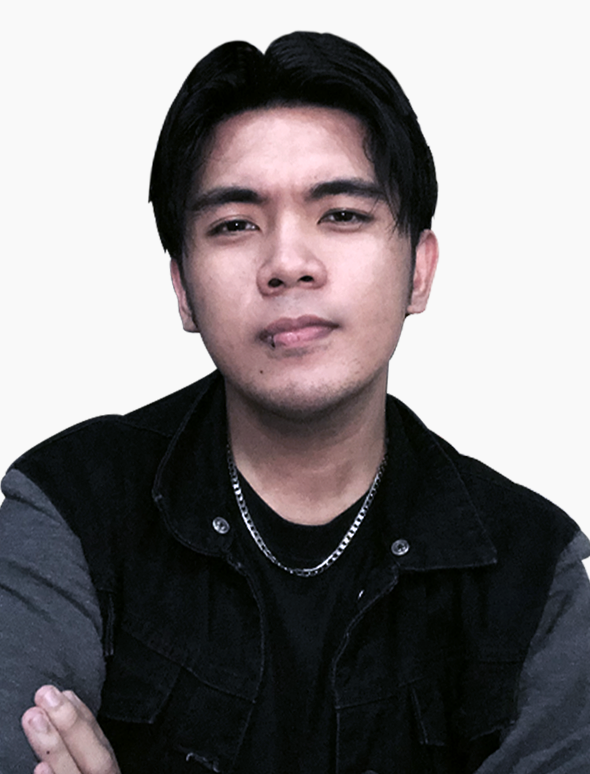
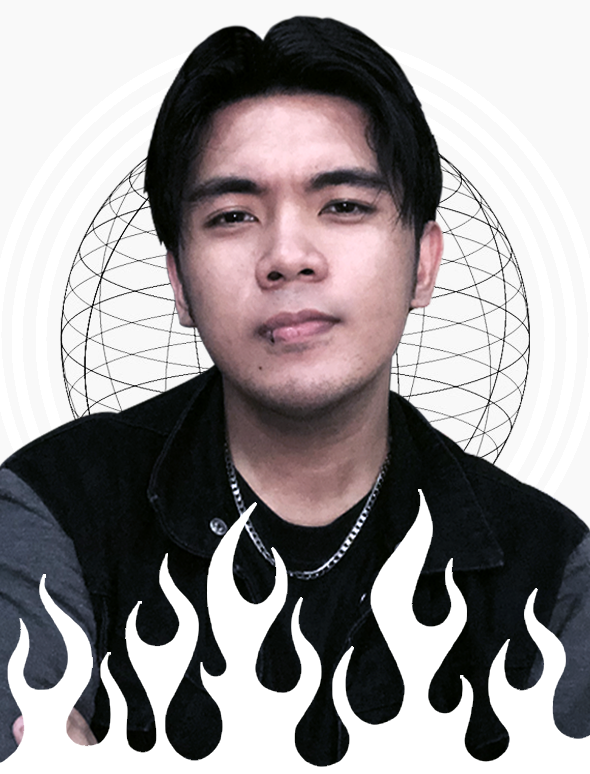
index change

Changed region(s): [[0.0, 0.0, 1.0, 1.0], [0.8237, 0.7132, 0.8542, 0.7442], [0.2441, 0.6202, 0.2746, 0.6512]]

diff --git a/index.html b/index.html
@@ -257,10 +257,10 @@
 									
 									<div class='content' >
 										
-										<h4>Creative</h4>
+										<h4>Developer</h4>
 										
 										<p>
-											Ut aboramus, numquam corpora qui naex. Dolore aliquando id duo, voluptua laboramus quo ad.
+											I build things with code, making ideas work the way they should. If there's a problem, I’ll find a way to fix it.
 										</p>
 										
 									</div>
@@ -277,10 +277,10 @@
 									
 									<div class='content' >
 										
-										<h4>Winner</h4>
+										<h4>Designer</h4>
 										
 										<p>
-											Ut aboramus, numquam corpora qui naex. Dolore aliquando id duo, voluptua laboramus quo ad.
+											Function and form go hand in hand. A thing’s got to work, but it’s got to look the part too.
 										</p>
 										
 									</div>
@@ -297,10 +297,10 @@
 									
 									<div class='content' >
 										
-										<h4>Smart</h4>
+										<h4>Problem-Solver</h4>
 										
 										<p>
-											Ut aboramus, numquam corpora qui naex. Dolore aliquando id duo, voluptua laboramus quo ad.
+											When something’s broken, I don’t sit around complaining. I figure it out, no matter what it takes.
 										</p>
 										
 									</div>
@@ -317,10 +317,10 @@
 									
 									<div class='content' >
 										
-										<h4>Powerful</h4>
+										<h4>Technophile</h4>
 										
 										<p>
-											Ut aboramus, numquam corpora qui naex. Dolore aliquando id duo, voluptua laboramus quo ad.
+											The world moves forward, and I keep up. If there’s something new, I’ll learn it, master it, and put it to use.
 										</p>
 										
 									</div>
@@ -339,10 +339,10 @@
 									
 									<div class='content' >
 										
-										<h4>Helper</h4>
+										<h4>Adaptable</h4>
 										
 										<p>
-											Ut aboramus, numquam corpora qui naex. Dolore aliquando id duo, voluptua laboramus quo ad.
+											Situations change, and so do I. Whatever’s thrown my way, I adjust, and I thrive.
 										</p>
 										
 									</div>
@@ -359,10 +359,10 @@
 									
 									<div class='content' >
 										
-										<h4>Intelligent</h4>
+										<h4>Collaborative</h4>
 										
 										<p>
-											Ut aboramus, numquam corpora qui naex. Dolore aliquando id duo, voluptua laboramus quo ad.
+											No one wins a war alone. I work with others, share ideas, and make things happen.
 										</p>
 										
 									</div>
@@ -379,10 +379,10 @@
 									
 									<div class='content' >
 										
-										<h4>Gamer</h4>
+										<h4>Visionary</h4>
 										
 										<p>
-											Ut aboramus, numquam corpora qui naex. Dolore aliquando id duo, voluptua laboramus quo ad.
+											I see things not just as they are, but as they could be. Then, I go out and make it real.
 										</p>
 										
 									</div>
@@ -399,10 +399,10 @@
 									
 									<div class='content' >
 										
-										<h4>Healthy</h4>
+										<h4>Disciplined</h4>
 										
 										<p>
-											Ut aboramus, numquam corpora qui naex. Dolore aliquando id duo, voluptua laboramus quo ad.
+											Talent’s one thing, but without discipline, it means nothing. I put in the work, every damn day.
 										</p>
 										
 									</div>
@@ -459,7 +459,73 @@
 					
 				</div>
 				
-				
+				<div class='testimonials-block section-block' >
+					<div class='container' >
+					
+						<div class='section-header text-center' >
+							
+							<h2 class='animate text-over-block' >Testimonials</h2>
+							
+							
+							<!--divider-->
+							<div class='divider-draft center' ></div>
+							<!--/divider-->
+							
+							
+						</div>
+						
+						<div class='row' >
+							
+							<div class='col-md-8 col-md-offset-2' >
+								
+								<div class='testimonials-slider' >
+									
+									<div class='testimonial' >
+										<p>
+											
+											Ad optere volibus nec, sea ei civibus prasent. At timeam expetenda inciderint has. Invidunt constituto ne per, paulo omnium queum his eu, cu congue consul cetero. Invidunt constituto ne per, paulo omnium his eu, cu congue consul cetero.
+										
+										</p>
+										
+										<div class='author' >
+											<h4>Jack Smith</h4>
+											<p>CEO at Google</p>
+										</div>
+									</div>
+									
+									<div class='testimonial' >
+										<p>
+											Ad oportere voluptatibus nec, sea ei civibus praesent. At timeam expetenda inciderint has. Invidunt constituto ne per, paulo omnium quaerendum his eu, cu congue consul cetero. Invidunt constituto ne per, paulo omnium quaerendum his eu, cu congue consul cetero.
+										</p>
+										
+										<div class='author' >
+											<h4>Jessica Smith</h4>
+											<p>CEO at Google</p>
+										</div>
+									</div>
+									
+									<div class='testimonial' >
+										<p>
+											Ad oportere voluptatibus nec, sea ei civibus praesent. At timeam expetenda inciderint has. Invidunt constituto ne per, paulo omnium quaerendum his eu, cu congue consul cetero. Invidunt constituto ne per, paulo omnium quaerendum his eu, cu congue consul cetero.
+										</p>
+										
+										<div class='author' >
+											<h4>Jim Smith</h4>
+											<p>CEO at Google</p>
+										</div>
+									</div>
+									
+									
+									
+									
+								</div>
+								
+							</div>
+							
+						</div>
+					
+					</div>
+				</div>
 				
 				<div class='footer bg-lightgray section-block' >
 					
@@ -519,7 +585,7 @@
 						<div class='col-md-6 col-md-offset-3' >
 							<div class='section-header text-center' >
 								
-								<h2 class='animate text-over-block' >My Resume</h2>
+								<h2 class='animate text-over-block' >my resume.</h2>
 								
 								<!--divider-->
 								<div class='divider-draft center' ></div>

diff --git a/css/style.css b/css/style.css
@@ -202,7 +202,8 @@ body.section-show .close-btn{
 	border:solid 4px #BBB;
 	padding-top:100px;
 	z-index:-9;
-	background:#FFF;
+	background-image: url(../img/bg.png);
+	background-size: cover;
 	overflow-y:auto;
 	opacity:0;
 	visibility:hidden;
@@ -221,7 +222,7 @@ body.section-show .section.active{
 }
 .footer{
 	padding:30px 0;
-	background:#FFF;
+	background:#1d1d1d;
 	border-top:solid 1px #F0F0F0;
 }
 .footer h4{
@@ -229,9 +230,13 @@ body.section-show .section.active{
 	letter-spacing:4px;
 	margin:0;
 	margin-top:3.5px;
-	font-style:italic;
-	font-family:'Playfair Display', serif;
-	color:#999;
+	color:#f9f9f9;
+	font-family: "Martian Mono", serif;
+	font-optical-sizing: auto;
+	font-weight: 600;
+	font-style: normal;
+	font-variation-settings:
+		"wdth" 112.5;
 }
 .footer-social{
 	margin:0;
@@ -338,7 +343,7 @@ body.section-show .section.active{
 .divider-draft{
 	position:relative;
 	height:2px;
-	background:#333;
+	background:#f9f9f9;
 	width:40px;
 	display:block;
 	margin:15px 0;
@@ -348,7 +353,7 @@ body.section-show .section.active{
 	content: ' ';
 	width:25px;
 	height:1px;
-	background:#333;
+	background:#f9f9f9;
 	position:absolute;
 	left:0;
 }
@@ -1175,8 +1180,9 @@ body.section-show .transition-mask:before{
 	-moz-transition:all .3s ease-in-out;
 	transition:all .3s ease-in-out;
 	font-size:0;
-	background:#B7A389;
-	color:#FFF;
+	background:#1d1d1d;
+	border: 1px solid #ffea00;
+	color:#f9f9f9;
 	position:relative;
 	top:0;
 }
@@ -1200,14 +1206,21 @@ body.section-show .transition-mask:before{
 	transform:rotate(-45deg);
 }
 .service > .content > h4{
-	font-size:20px;
+	font-size:18px;
 	margin-top:50px;
 	margin-bottom:8px;
-	letter-spacing:2px;
+	letter-spacing: 1px;
+	color: #f9f9f9;
+	font-family: "Martian Mono", serif;
+	font-optical-sizing: auto;
+	font-weight: 600;
+	font-style: normal;
+	font-variation-settings:
+		"wdth" 112.5;
 }
 .service > .content > p{
 	line-height:1.6em;
-	color:#777;
+	color:#f9f9f9;
 }
 .pricing-block{
 	padding:120px 0;
@@ -1436,7 +1449,7 @@ body .symp-btn{
 	*display:inline;
 	*zoom:1;
 	padding:12px 22px;
-	background:#333;
+	background:#1d1d1d;
 	color:#FFF;
 	-webkit-transition:all .3s ease;
 	-moz-transition:all .3s ease;
@@ -1446,8 +1459,8 @@ body .symp-btn{
 }
 .post-more .more-link:hover,
 .symp-btn:hover{
-	background:#B7A389;
-	color:#FFF;
+	background:#ffea00;
+	color:#1d1d1d;
 }
 .symp-btn.link-btn{
 	background:transparent;

diff --git a/css/color-black.css b/css/color-black.css
@@ -1,9 +1,6 @@
 .post-more .more-link:hover,
-.symp-btn:hover,
 .process:hover > .number,
 .pricing-table > .table-btn:hover,
-.service > .icon,
-.hobby > .icon,
 .timeline > li:not(.timeline-header):before,
 .footer-social > li > a:hover,
 .process > .number > span:after,
